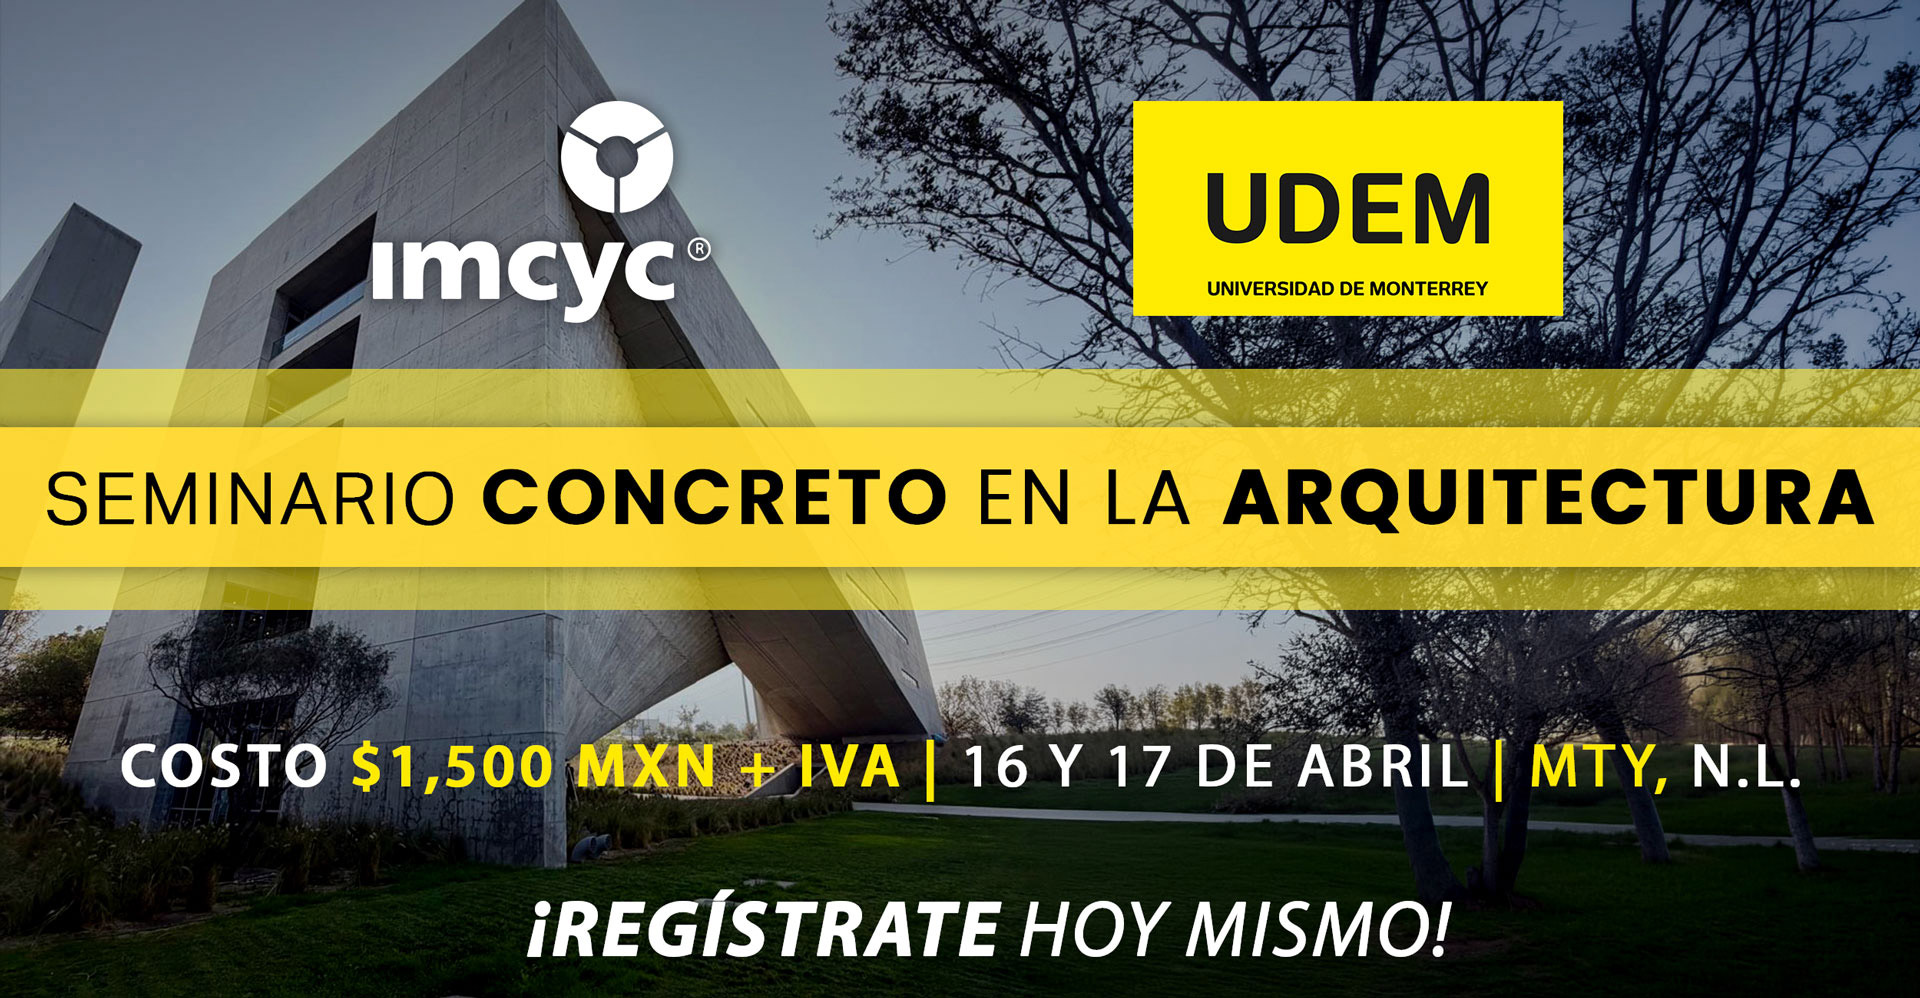
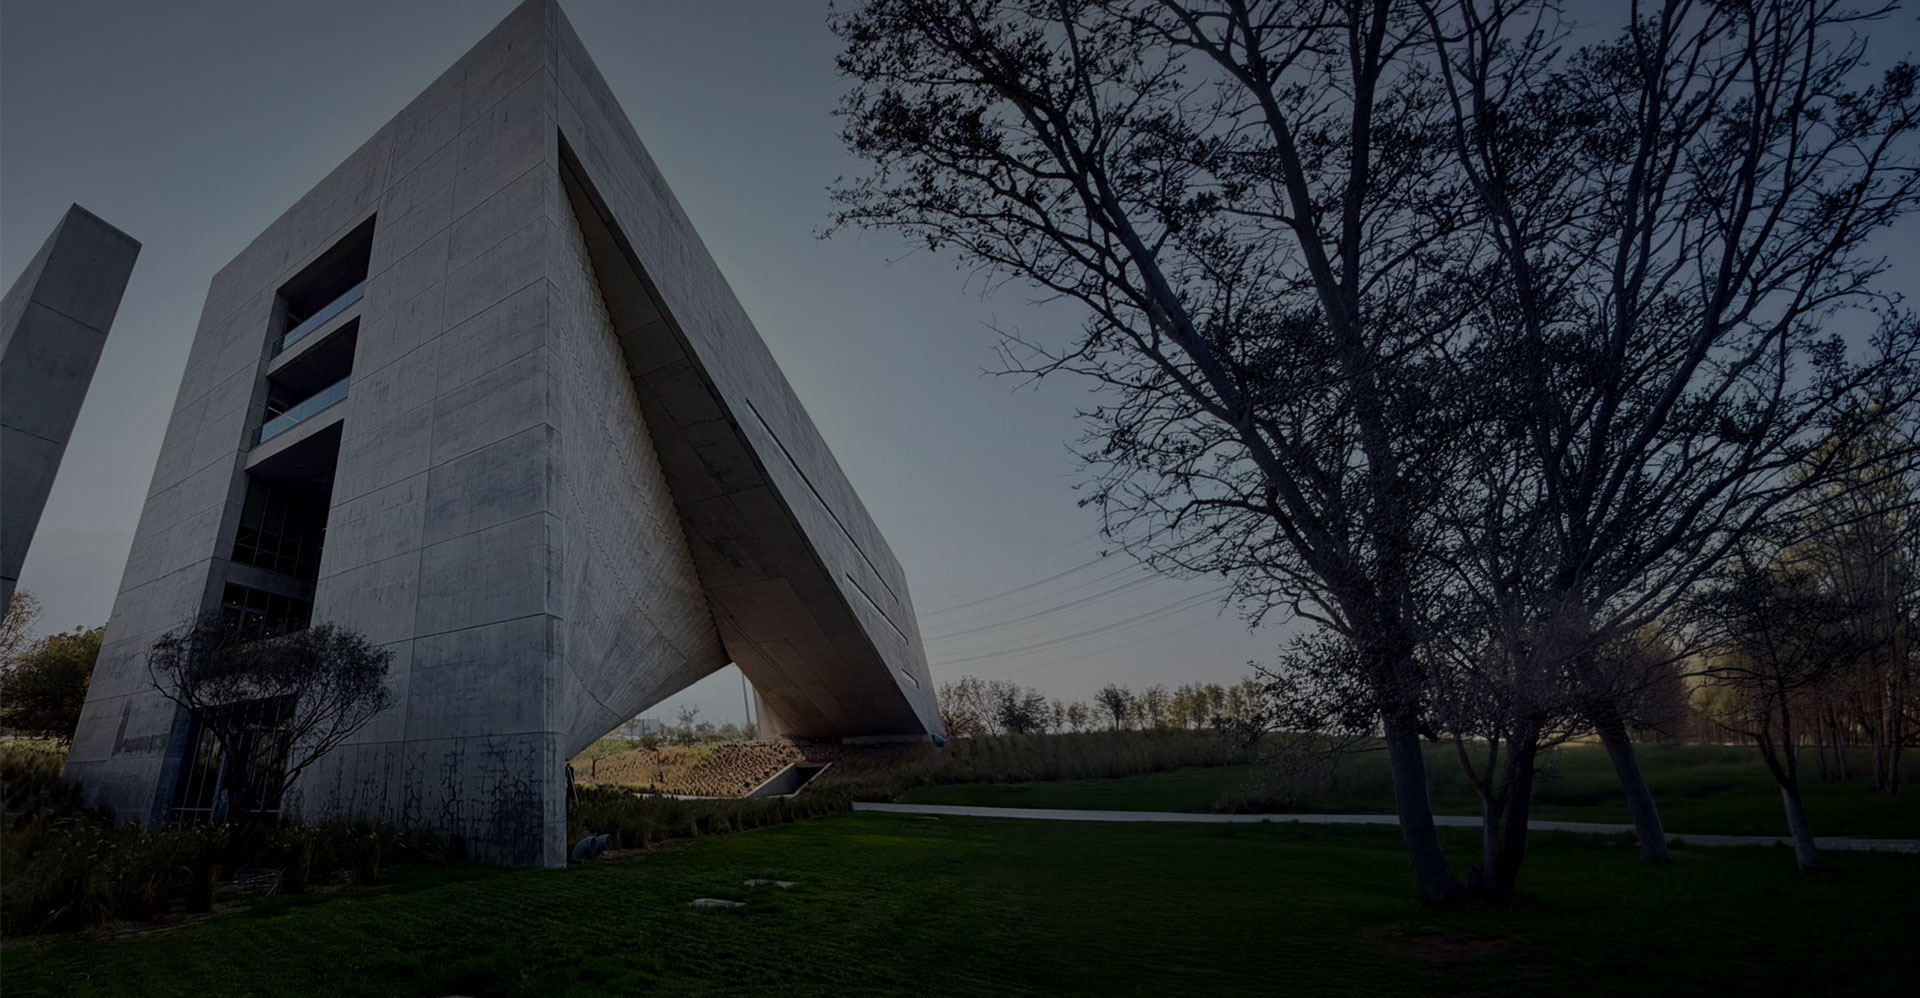
seminario

diff --git a/src/app/page.tsx b/src/app/page.tsx
@@ -42,17 +42,43 @@ export default function Home() {
               className="bg-[url('/udem-banner.jpg')] bg-gray-500 bg-blend-multiply z-10 bg-cover bg-center bg-no-repeat h-auto"
               style={{ height: '100vh' }}
             >
+              <div className="py-0 px-0 mx-auto max-w-screen-xl text-center z-10 relativepb-36 pt-36">
+                <h1 className="font-montserrat pt-32 pb-5 text-white text-1xl">INSTITUTO MEXICANO DEL CEMENTO Y DEL CONCRETO A.C.</h1>
+                <Image
+                  src="/logo_udem.png"
+                  alt="UDEM Logo"
+                  width={300}
+                  height={0}
+                  className="mx-auto mt-5 mb-5"
+                />
+                <h4 className='text-white pb-5'>LE INVITAN AL</h4>
+                <h2 className="font-montserrat mb-7 text-3xl font-light tracking-tight leading-none text-white md:text-4xl lg:text-6xl dark:text-white">
+                SEMINARIO <span className='font-bold'>CONCRETO</span> EN LA <span className='font-bold'>ARQUITECTURA</span></h2>
+                <p className="font-montserrat mb-8 text-3xl font-bold text-white dark:text-gray-200">COSTO <span className='text-imcycYellow'>$1,500 MXN + IVA</span> | 16 y 17 DE ABRIL | <span className='text-imcycYellow'>MTY</span>, N.L.</p>
                 <Link
                   href="/eventos/seminario-udem"
+                  className="inline-flex justify-between items-center py-1 px-1 pe-4 mb-2 text-sm text-gray-900 rounded-full bg-yellow-500 dark:text-blue-300 hover:bg-yellow-700 dark:hover:bg-blue-800 mr-3"
                 >
-                  <Image 
-                    src="/udem-banner.jpg" 
-                    alt="Calendario de cursos" 
-                    width={1920} 
-                    height={0}
-                    style={{ width: '100%', height: '100%' }}
-                  />
+                  <span className="text-md bg-imcycYellow rounded-full text-gray-900 px-4 py-1.5 me-3">
+                    ¡<span className='font-bold'>REGÍSTRATE</span> AHORA MISMO!
+                  </span>{" "}
+                  <svg
+                    className="w-2.5 h-2.5 ms-2 rtl:rotate-180"
+                    aria-hidden="true"
+                    xmlns="http://www.w3.org/2000/svg"
+                    fill="none"
+                    viewBox="0 0 6 10"
+                  >
+                    <path
+                      stroke="currentColor"
+                      strokeLinecap="round"
+                      strokeLinejoin="round"
+                      strokeWidth="2"
+                      d="m1 9 4-4-4-4"
+                    />
+                  </svg>
                 </Link>
+              </div>
             </SwiperSlide>
             <SwiperSlide 
               className="bg-[url('https://www.webinarsenconcreto.com/images/2022/fondo1.jpg')] bg-gray-500 bg-blend-multiply z-10 bg-cover bg-center bg-no-repeat h-auto"

diff --git a/tailwind.config.ts b/tailwind.config.ts
@@ -13,6 +13,7 @@ const config: Config = {
       colors: {
         background: "var(--background)",
         foreground: "var(--foreground)",
+        imcycYellow: "#ffea05",
       },
       fontFamily: {
         montserrat: ["Montserrat", "sans-serif"],
